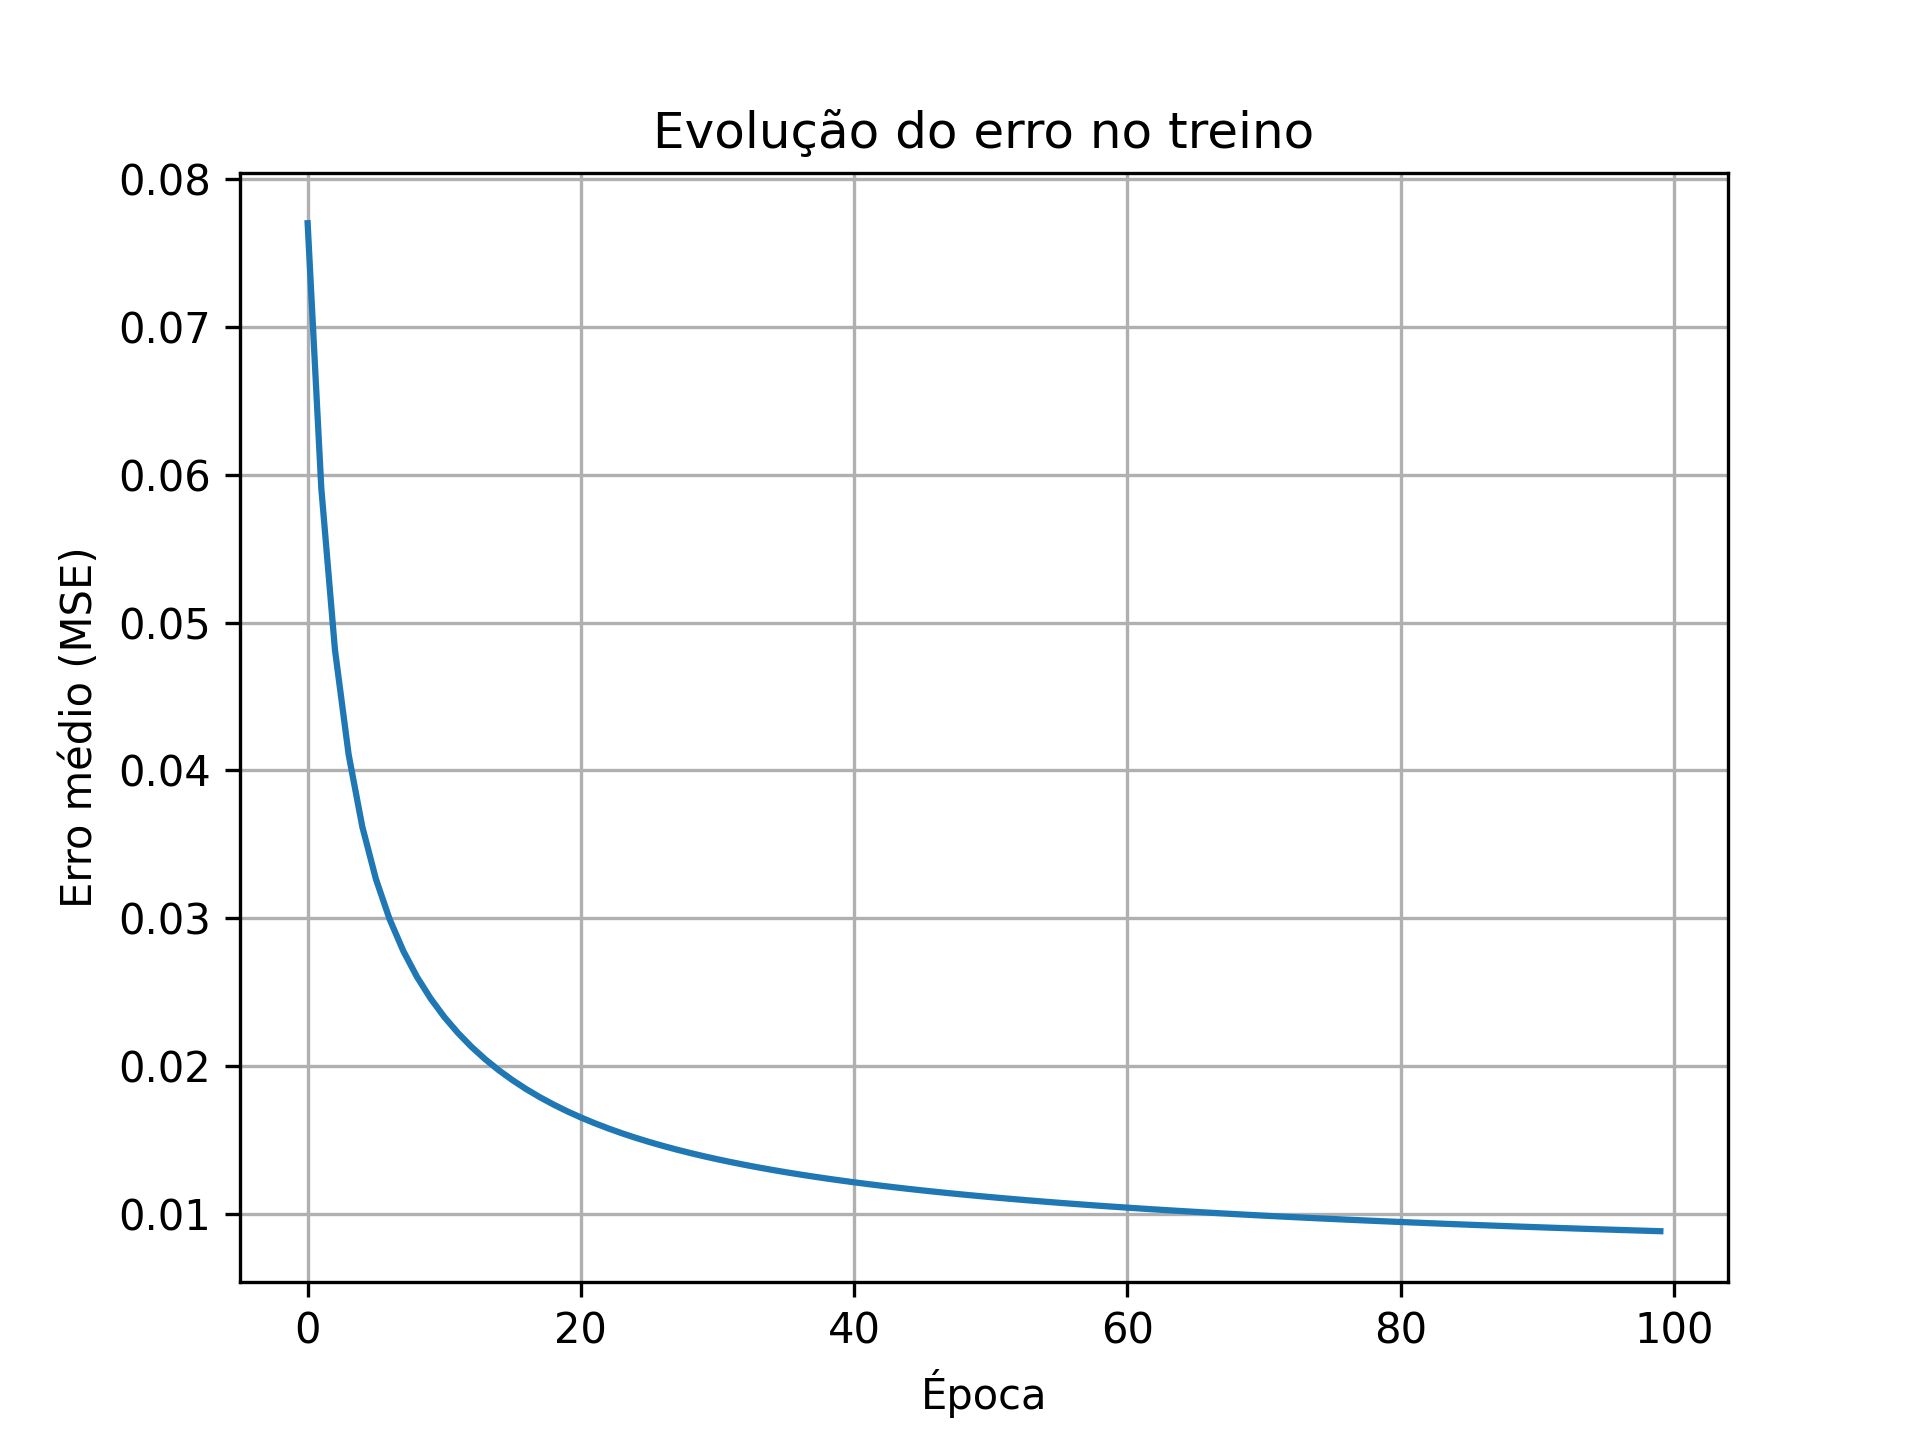
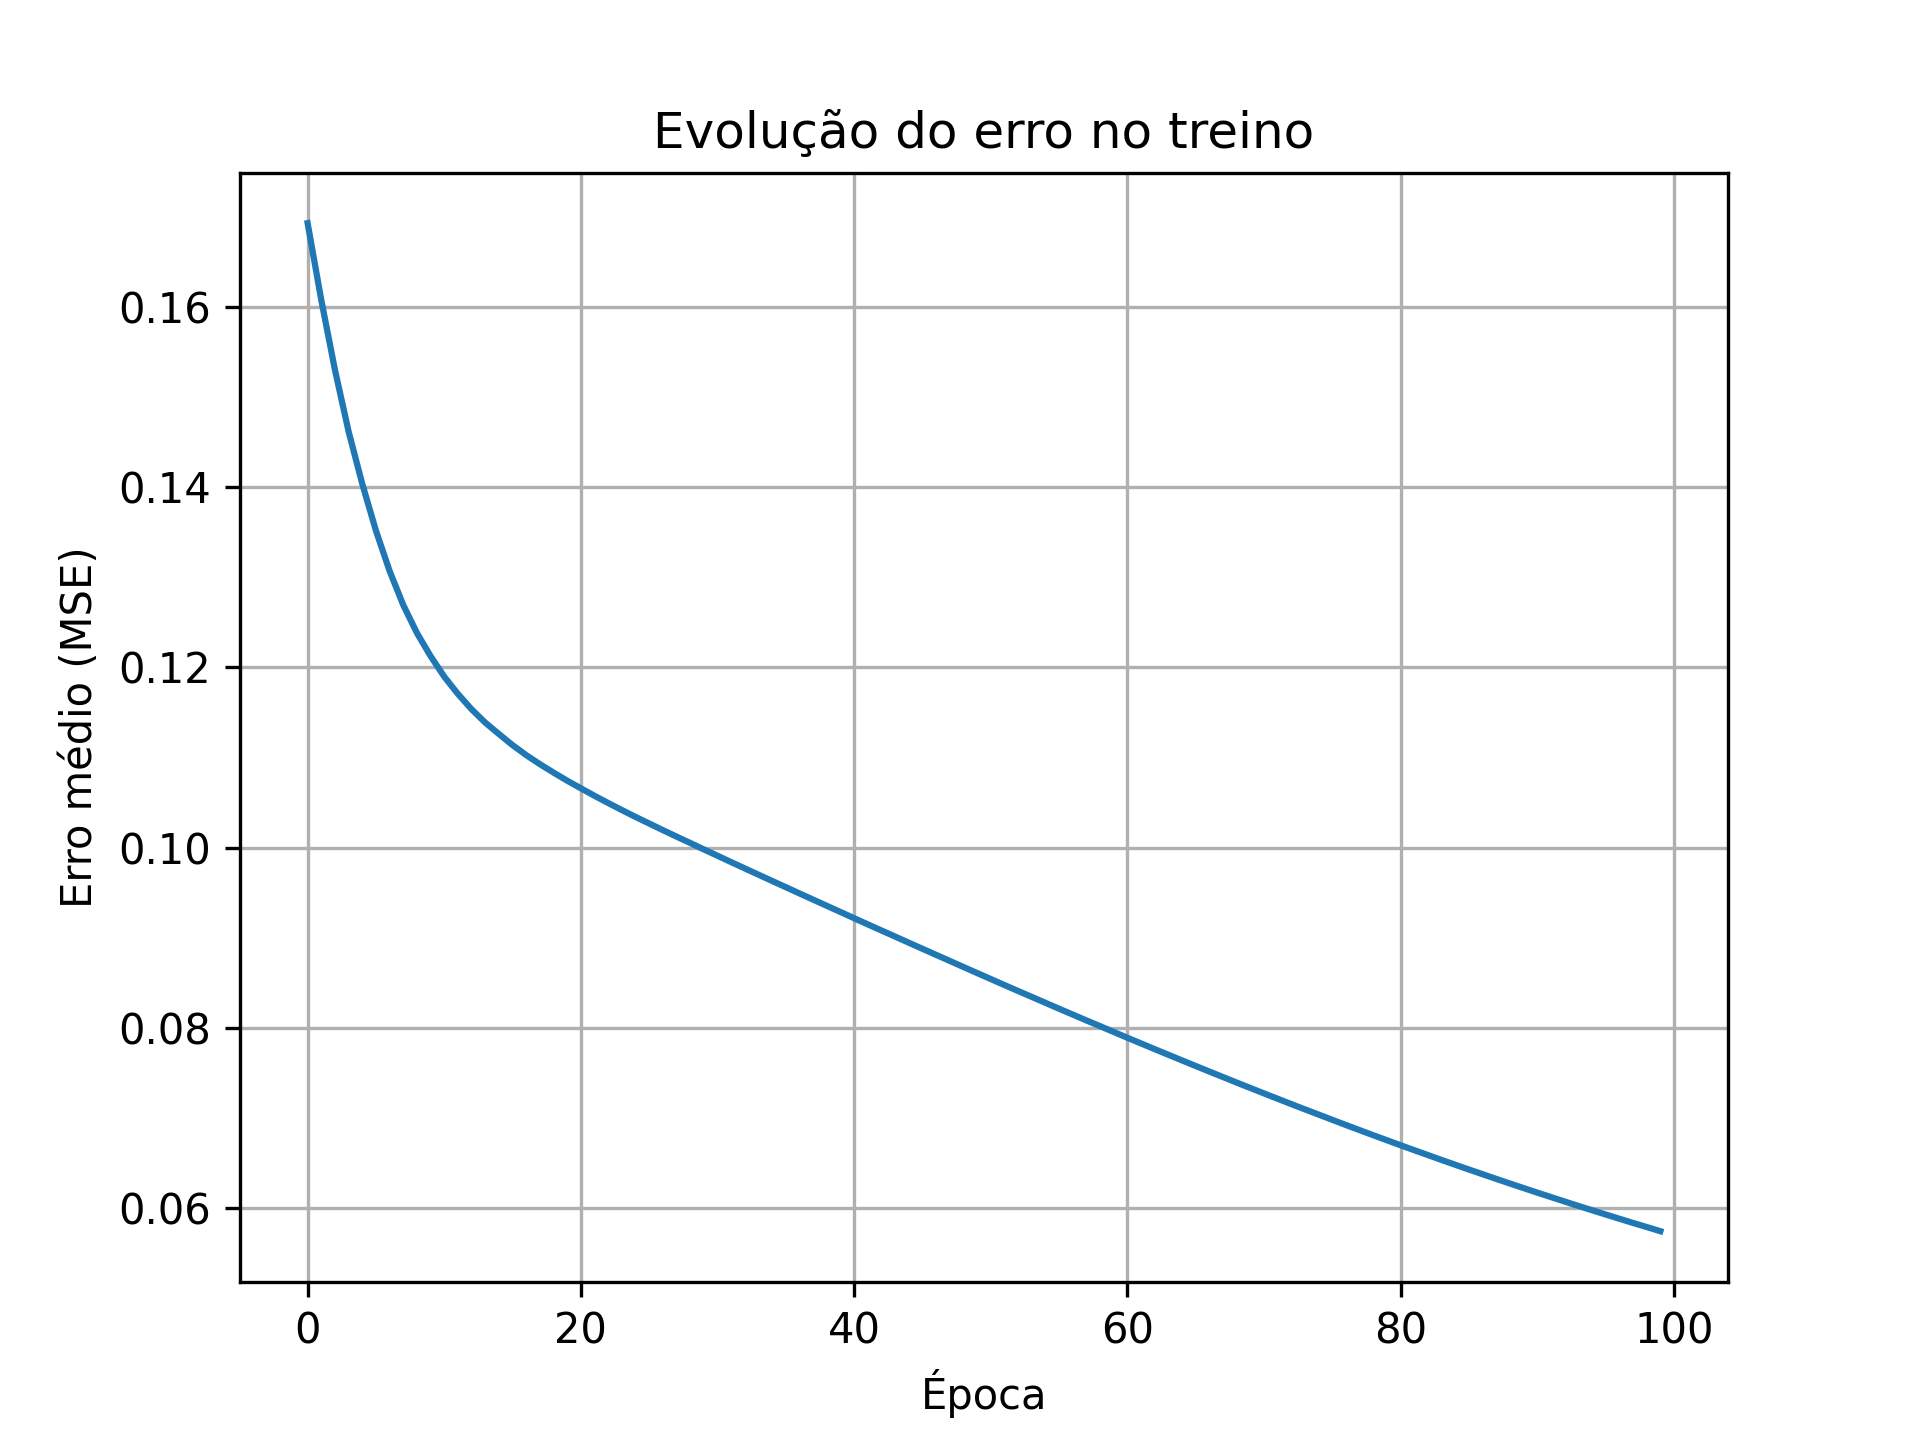
feat: atualiza a implementação da rede neural com mini-batch SGD e melhorias na documentação; adiciona gráficos de desempenho

diff --git a/RN-Backprop/Rnb.py b/RN-Backprop/Rnb.py
@@ -2,96 +2,133 @@ import numpy as np
 
 class RedeNeural:
     """
-    MLP bem simples:
-      - n_entradas
-      - 1 camada oculta com n_ocultos neurônios (sigmóide)
-      - 1 neurônio de saída (sigmóide)
+    MLP com:
+      - camada de entrada (n_entradas)
+      - 1 camada oculta (n_ocultos)
+      - 1 neurônio de saída
+
+    Implementação no estilo do livro Deep Learning Book,
+    Data Science Academy(https://www.datascienceacademy.com.br/),
+    com backpropagation e mini-batch SGD.
     """
 
     def __init__(self, n_entradas: int, n_ocultos: int, taxa_aprendizado: float = 0.1):
-        self.n_entradas = n_entradas
-        self.n_ocultos = n_ocultos
-        self.n_saidas = 1
+        self.sizes = [n_entradas, n_ocultos, 1]
+        self.num_layers = len(self.sizes)
         self.taxa_aprendizado = taxa_aprendizado
 
-        self.pesos_entrada_oculta = np.random.uniform(
-            -0.5, 0.5, size=(self.n_ocultos, self.n_entradas)
-        )
+        self.biases = [np.random.randn(y, 1) for y in self.sizes[1:]]
 
-        self.bias_oculta = np.random.uniform(-0.5, 0.5, size=(self.n_ocultos,))
-
-        self.pesos_oculta_saida = np.random.uniform(-0.5, 0.5, size=(self.n_ocultos,))
-
-        self.bias_saida = np.random.uniform(-0.5, 0.5)
-
-        self.ativ_oculta = np.zeros(self.n_ocultos)
-        self.ativ_saida = 0.0
+        self.weights = [
+            np.random.randn(y, x) * 0.1
+            for x, y in zip(self.sizes[:-1], self.sizes[1:])
+        ]
 
 
     @staticmethod
-    def sigmoide(x):
-        return 1.0 / (1.0 + np.exp(-x))
+    def sigmoide(z):
+        return 1.0 / (1.0 + np.exp(-z))
 
     @staticmethod
-    def derivada_sigmoide(y):
-        return y * (1.0 - y)
+    def sigmoide_prime(z):
+        s = 1.0 / (1.0 + np.exp(-z))
+        return s * (1.0 - s)
+
+    @staticmethod
+    def cost_derivative(output_activations, y):
+        # derivada do custo quadrático: 1/2 ||a - y||^2  -> (a - y)
+        return output_activations - y
+
+    # ==================== Feedforward ====================
+
+    def feedforward(self, a):
+        """Propaga a entrada 'a' pela rede inteira."""
+        for b, w in zip(self.biases, self.weights):
+            a = self.sigmoide(np.dot(w, a) + b)
+        return a
 
 
-    def forward(self, x: np.ndarray) -> float:
+    def backprop(self, x, y):
         """
-        x: vetor de entrada com shape (n_entradas,)
-        retorna: saída escalar (entre 0 e 1)
+        Retorna uma tupla (nabla_b, nabla_w) representando
+        o gradiente do custo C_x em relação a cada bias e peso.
+        nabla_b e nabla_w têm o mesmo formato que self.biases e self.weights.
         """
-        z_oculta = self.pesos_entrada_oculta @ x + self.bias_oculta
-        self.ativ_oculta = self.sigmoide(z_oculta)
+        nabla_b = [np.zeros(b.shape) for b in self.biases]
+        nabla_w = [np.zeros(w.shape) for w in self.weights]
 
-        z_saida = self.pesos_oculta_saida @ self.ativ_oculta + self.bias_saida
-        self.ativ_saida = self.sigmoide(z_saida)
+        activation = x
+        activations = [x]  # ativações de cada camada
+        zs = []            # valores z = w.a + b em cada camada
 
-        return float(self.ativ_saida)
+        for b, w in zip(self.biases, self.weights):
+            z = np.dot(w, activation) + b
+            zs.append(z)
+            activation = self.sigmoide(z)
+            activations.append(activation)
+
+        delta = self.cost_derivative(activations[-1], y) * self.sigmoide_prime(zs[-1])
+        nabla_b[-1] = delta
+        nabla_w[-1] = np.dot(delta, activations[-2].transpose())
+
+        for l in range(2, self.num_layers):
+            z = zs[-l]
+            sp = self.sigmoide_prime(z)
+            delta = np.dot(self.weights[-l + 1].transpose(), delta) * sp
+            nabla_b[-l] = delta
+            nabla_w[-l] = np.dot(delta, activations[-l - 1].transpose())
+
+        return nabla_b, nabla_w
 
 
-    def backpropagation(self, x: np.ndarray, alvo: float):
+    def update_mini_batch(self, mini_batch, eta):
         """
-        Executa forward + backpropagation para UM exemplo (x, alvo)
-        Atualiza os pesos in-place (gradient descent).
+        Atualiza pesos e biases aplicando o gradiente médio de um mini-batch.
+        mini_batch: lista de tuplas (x, y)
+        eta: taxa de aprendizado
         """
-        saida = self.forward(x)
+        nabla_b = [np.zeros(b.shape) for b in self.biases]
+        nabla_w = [np.zeros(w.shape) for w in self.weights]
 
-        erro_saida = saida - alvo
-        delta_saida = erro_saida * self.derivada_sigmoide(saida)
+        for x, y in mini_batch:
+            delta_nabla_b, delta_nabla_w = self.backprop(x, y)
+            nabla_b = [nb + dnb for nb, dnb in zip(nabla_b, delta_nabla_b)]
+            nabla_w = [nw + dnw for nw, dnw in zip(nabla_w, delta_nabla_w)]
 
-        grad_pesos_oculta_saida = delta_saida * self.ativ_oculta  
-        self.pesos_oculta_saida -= self.taxa_aprendizado * grad_pesos_oculta_saida
-
-        self.bias_saida -= self.taxa_aprendizado * delta_saida
-
-        erro_oculta = delta_saida * self.pesos_oculta_saida  
-        delta_oculta = erro_oculta * self.derivada_sigmoide(self.ativ_oculta)
-
-        grad_pesos_entrada_oculta = delta_oculta[:, np.newaxis] * x[np.newaxis, :]
-        self.pesos_entrada_oculta -= self.taxa_aprendizado * grad_pesos_entrada_oculta
-
-        self.bias_oculta -= self.taxa_aprendizado * delta_oculta
-
-        return 0.5 * (erro_saida ** 2)
+        m = len(mini_batch)
+        self.weights = [w - (eta / m) * nw for w, nw in zip(self.weights, nabla_w)]
+        self.biases = [b - (eta / m) * nb for b, nb in zip(self.biases, nabla_b)]
 
 
-    def treinar(self, X: np.ndarray, Y: np.ndarray, epocas: int = 1000):
+    def treinar(self, X: np.ndarray, Y: np.ndarray, epocas: int = 1000, mini_batch_size: int = 16):
         """
         X: matriz (N, n_entradas)
-        Y: vetor (N,) com alvos (0 ou 1, por exemplo)
-        Retorna uma lista com o erro médio em cada época.
+        Y: vetor (N,) com rótulos 0/1
+        Retorna lista com erro médio (MSE) por época.
         """
         N = X.shape[0]
+        dados = [
+            (X[i].reshape(-1, 1), np.array([[Y[i]]], dtype=float))
+            for i in range(N)
+        ]
+
         historico_erro = []
 
         for epoca in range(1, epocas + 1):
+            np.random.shuffle(dados)
+
+            mini_batches = [
+                dados[k:k + mini_batch_size]
+                for k in range(0, N, mini_batch_size)
+            ]
+
+            for mini_batch in mini_batches:
+                self.update_mini_batch(mini_batch, self.taxa_aprendizado)
+
             erro_total = 0.0
-            for i in range(N):
-                x = X[i]
-                y = Y[i]
-                erro_total += self.backpropagation(x, y)
+            for x, y in dados:
+                y_pred = self.feedforward(x)
+                erro_total += 0.5 * np.linalg.norm(y_pred - y) ** 2
 
             erro_medio = erro_total / N
             historico_erro.append(erro_medio)
@@ -104,7 +141,8 @@ class RedeNeural:
 
     def prever_proba(self, x: np.ndarray) -> float:
         """Retorna a probabilidade (saída da sigmóide)."""
-        return self.forward(x)
+        a = self.feedforward(x.reshape(-1, 1))
+        return float(a[0, 0])
 
     def prever_classe(self, x: np.ndarray, limiar: float = 0.5) -> int:
         """Converte a probabilidade em classe 0/1 usando um limiar."""

diff --git a/RN-Backprop/Teste_rnb.py b/RN-Backprop/Teste_rnb.py
@@ -2,11 +2,13 @@ import sys
 import os
 import numpy as np
 import matplotlib.pyplot as plt
+
 sys.path.append('../Bases')
 sys.path.append('../RN-Backprop')
 
 from Base_breast_cancer import data
 from Rnb import RedeNeural
+
 
 def get_plot_dir():
     """
@@ -17,13 +19,14 @@ def get_plot_dir():
     os.makedirs(plot_dir, exist_ok=True)
     return plot_dir
 
+
 def carregar_dados():
     """
     Usa o objeto 'data' do sklearn (já carregado em Base_breast_cancer.py)
-    e devolve X, y como numpy arrays.
+    e devolve X, y como numpy arrays normalizados.
     """
     X = data.data.to_numpy(dtype=float)
-    y = data.target.to_numpy(dtype=float) 
+    y = data.target.to_numpy(dtype=float)
 
     media = X.mean(axis=0)
     desvio = X.std(axis=0)
@@ -34,6 +37,11 @@ def carregar_dados():
 
 
 def dividir_treino_teste(X, y, proporcao_treino=0.8):
+    """
+    Embaralha os dados e separa:
+      - proporcao_treino (80%) para treino
+      - o resto (20%) para teste
+    """
     N = X.shape[0]
     idx = np.random.permutation(N)
     X = X[idx]
@@ -71,7 +79,6 @@ def avaliar_rede(rede: RedeNeural, X_teste, y_teste, limiar=0.5):
     recall = TP / (TP + FN) if (TP + FN) > 0 else 0.0
     f1 = 2 * precisao * recall / (precisao + recall) if (precisao + recall) > 0 else 0.0
 
-
     print("\nMatriz de confusão:")
     print(f"TN: {TN}  FP: {FP}")
     print(f"FN: {FN}  TP: {TP}\n")
@@ -81,7 +88,6 @@ def avaliar_rede(rede: RedeNeural, X_teste, y_teste, limiar=0.5):
     print(f"Recall:   {recall:.4f}")
     print(f"F1:       {f1:.4f}")
 
-    # ---------- GRÁFICO: MATRIZ DE CONFUSÃO ----------
     cm = np.array([[TN, FP],
                    [FN, TP]])
 
@@ -107,7 +113,6 @@ def avaliar_rede(rede: RedeNeural, X_teste, y_teste, limiar=0.5):
     plt.tight_layout()
     plt.savefig(os.path.join(plot_dir, "matriz_confusao.png"), dpi=300)
 
-    # ---------- GRÁFICO: MÉTRICAS (ACURÁCIA, PRECISÃO, RECALL, F1) ----------
     metricas = ["Acurácia", "Precisão", "Recall", "F1"]
     valores = [acuracia, precisao, recall, f1]
 

diff --git a/README.md b/README.md
@@ -30,7 +30,7 @@ python KNN/Teste_knn.py
 
 O script:
 - Carrega a base de câncer de mama via [`Bases.Base_breast_cancer.data`](Bases/Base_breast_cancer.py)
-- Separa treino/teste
+- Separa treino/teste (80% / 20%)
 - Calcula métricas (acurácia, precisão, recall, F1)
 - Mostra matriz de confusão e gráficos de desempenho
 
@@ -47,9 +47,13 @@ python RN-Backprop/Teste_rnb.py
 
 O script:
 - Carrega e normaliza os dados com [`RN-Backprop.Teste_rnb.carregar_dados`](RN-Backprop/Teste_rnb.py)
-- Treina a rede com backpropagation
-- Plota evolução do erro e salva gráficos em `Plots/Backpropagation/`
+- Divide a base em 80% treino e 20% teste
+- Treina a rede com backpropagation usando mini‑batch SGD
+- Plota a evolução do erro de treino (MSE) e salva em `Plots/Backpropagation/erro_treino.png`
 - Calcula matriz de confusão e métricas (acurácia, precisão, recall, F1)
+- Gera e salva:
+  - `Plots/Backpropagation/matriz_confusao.png`
+  - `Plots/Backpropagation/metricas_desempenho.png`
 
 ---
 
@@ -107,24 +111,34 @@ Para regressão linear é usado o dataset California Housing dentro do notebook.
 ### Regressão Logística
 
 - Implementada em [Regrecao_Logistica/RLog.py](Regrecao_Logistica/RLog.py).
-- Usa função sigmoide $\\sigma(z) = \\frac{1}{1 + e^{-z}}$ para mapear $z = w^T x + b$ em probabilidade.
+- Usa função sigmoide $\sigma(z) = \frac{1}{1 + e^{-z}}$ para mapear $z = w^T x + b$ em probabilidade.
 - Os parâmetros $w$ e $b$ são ajustados por gradiente descendente minimizando o custo logístico.
 
 ### Rede Neural (Backpropagation)
 
-- Classe [`RN-Backprop.Rnb.RedeNeural`](RN-Backprop/Rnb.py).
-- MLP com:
-  - Camada de entrada
+- Classe [`RN-Backprop.Rnb.RedeNeural`](RN-Backprop/Rnb.py) no estilo do livro de Michael Nielsen:
+  - Camada de entrada (número de atributos)
   - Uma camada oculta com ativação sigmoide
   - Um neurônio de saída sigmoide
-- Treinamento com backpropagation (gradiente descendente) amostra a amostra:
-  - `forward` calcula a saída
-  - `backpropagation` calcula gradientes e atualiza pesos e bias
-- Métrica de erro: MSE $= \\frac{1}{2}(y_{pred} - y)^2$ média por época.
+  - Pesos e biases armazenados em listas `self.weights` e `self.biases`.
+- Treinamento com **mini‑batch SGD**:
+  - O método `treinar` embaralha os dados, cria mini‑batches e chama `update_mini_batch`.
+  - `backprop` calcula o gradiente do erro em relação a todos os pesos e biases.
+  - `update_mini_batch` aplica a atualização de gradiente médio em cada mini‑batch.
+- Funções principais:
+  - `feedforward(a)`: propaga a entrada pela rede.
+  - `backprop(x, y)`: retorna gradientes `(nabla_b, nabla_w)` para uma amostra.
+  - `prever_proba(x)`: devolve a probabilidade da classe positiva.
+  - `prever_classe(x, limiar)`: converte probabilidade em rótulo 0/1.
+- Métrica de erro usada no treino: MSE
+  \[
+    \text{MSE} = \frac{1}{2}\|a - y\|^2
+  \]
+  e o script salva o erro médio por época em um gráfico.
 
 ### Regressão Linear
 
 - Implementada no notebook [Regrecao_Linear/rl.ipynb](Regrecao_Linear/rl.ipynb).
 - Modelo linear $y = w^T x + b$.
 - Treino por gradiente descendente sobre o erro quadrático médio (MSE).
-- Ao final, o notebook calcula o MSE em teste e plota $y_{real}$ vs $y_{pred}$.
+- Ao final, o notebook calcula o MSE em teste e plota $y_{\text{real}}$ vs $y_{\text{pred}}$.
